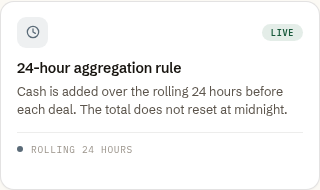
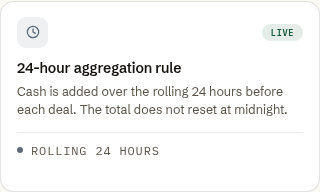
fix: raise the public rule label to 12px and 4.5 to 1
The shared rule label was about 10px in faint ink. One class now sets 12px in the mute ink for the home rule line and the compliance card label.

diff --git a/design/site/CurrencyDesk Site.dc.html b/design/site/CurrencyDesk Site.dc.html
@@ -21,6 +21,8 @@
     a:hover { color: #17583A; }
     html { scroll-behavior: smooth; scroll-snap-type: y proximity; }
     button { font-family: inherit; }
+    /* Small label on a public rule. 12px in the mute ink, which clears 4.5:1 on the white card. */
+    .cd-rule-meta { font-family: var(--m); font-size: 12px; color: var(--mute); }
     [data-rail] [data-more] { opacity: 0; transform: translateY(4px); max-height: 0; margin-top: 0; overflow: hidden; transition: opacity .25s ease, transform .25s ease, max-height .3s ease, margin-top .3s ease; pointer-events: none; }
     [data-rail]:hover [data-more] { opacity: 1; transform: translateY(0); max-height: 42px; margin-top: 9px; pointer-events: auto; }
     [data-rail][data-active="true"] [data-more] { opacity: 1; transform: translateY(0); max-height: 42px; margin-top: 9px; pointer-events: auto; }
@@ -431,7 +433,7 @@
                   </div>
                   <div style="position: relative; min-width: 0;">
                     <b style="display: -webkit-box; -webkit-line-clamp: 2; -webkit-box-orient: vertical; overflow: hidden; font-size: 14px; font-weight: 600; line-height: 1.2; color: var(--ink); letter-spacing: -0.005em;">{{ r.name }}</b>
-                    <span style="display: block; font-family: var(--m); font-size: 10.5px; color: var(--mute); margin-top: 5px; line-height: 1.25; white-space: nowrap; overflow: hidden; text-overflow: ellipsis;">{{ r.spec }}</span>
+                    <span class="cd-rule-meta" style="display: block; margin-top: 5px; line-height: 1.25; white-space: nowrap; overflow: hidden; text-overflow: ellipsis;">{{ r.spec }}</span>
                   </div>
                 </div>
               </sc-if>
@@ -441,7 +443,7 @@
                   <span style="{{ r.chipStyle }}">{{ r.icon }}</span>
                   <span style="flex: 1; min-width: 0;">
                     <b style="display: block; font-size: 13.5px; font-weight: 600; line-height: 1.2; color: var(--ink); letter-spacing: -0.005em; white-space: nowrap; overflow: hidden; text-overflow: ellipsis;">{{ r.name }}</b>
-                    <span style="{{ r.specStyle }}">{{ r.spec }}</span>
+                    <span class="cd-rule-meta" style="{{ r.specStyle }}">{{ r.spec }}</span>
                   </span>
                   <span style="{{ r.tagPill }}">{{ r.tag }}</span>
                 </div>
@@ -1418,7 +1420,7 @@ class Component extends DCLogic {
         const tall = sp[1] > 1;
         const wraps = r.name === '24-hour rule';
         return { slot: i, name: r.name, spec: r.spec, tag: r.tag, tall: tall, flat: !tall,
-          specStyle: 'display:block;font-family:var(--m);font-size:10px;color:var(--mute);margin-top:3px;line-height:1.2;white-space:' + (wraps ? 'normal' : 'nowrap') + ';overflow:' + (wraps ? 'visible' : 'hidden') + ';text-overflow:' + (wraps ? 'clip' : 'ellipsis') + ';',
+          specStyle: 'display:block;margin-top:3px;line-height:1.2;white-space:' + (wraps ? 'normal' : 'nowrap') + ';overflow:' + (wraps ? 'visible' : 'hidden') + ';text-overflow:' + (wraps ? 'clip' : 'ellipsis') + ';',
           icon: this.ic(ico, tall ? 17 : 15, acc, 1.9),
           bigIcon: this.ic(ico, tall ? 76 : 44, acc, 1.5),
           wmStyle: 'position:absolute;top:50%;transform:translateY(-50%);right:' + (tall ? '14px' : '8px') + ';opacity:' + (tall ? '0.17' : '0.15') + ';color:currentColor;pointer-events:none;line-height:0;z-index:0;',

diff --git a/web/index.html b/web/index.html
@@ -32,6 +32,8 @@
     a:hover { color: #17583A; }
     html { scroll-behavior: smooth; scroll-snap-type: y proximity; }
     button { font-family: inherit; }
+    /* Small label on a public rule. 12px in the mute ink, which clears 4.5:1 on the white card. */
+    .cd-rule-meta { font-family: var(--m); font-size: 12px; color: var(--mute); }
     [data-rail] [data-more] { opacity: 0; transform: translateY(4px); max-height: 0; margin-top: 0; overflow: hidden; transition: opacity .25s ease, transform .25s ease, max-height .3s ease, margin-top .3s ease; pointer-events: none; }
     [data-rail]:hover [data-more] { opacity: 1; transform: translateY(0); max-height: 42px; margin-top: 9px; pointer-events: auto; }
     [data-rail][data-active="true"] [data-more] { opacity: 1; transform: translateY(0); max-height: 42px; margin-top: 9px; pointer-events: auto; }
@@ -442,7 +444,7 @@
                   </div>
                   <div style="position: relative; min-width: 0;">
                     <b style="display: -webkit-box; -webkit-line-clamp: 2; -webkit-box-orient: vertical; overflow: hidden; font-size: 14px; font-weight: 600; line-height: 1.2; color: var(--ink); letter-spacing: -0.005em;">{{ r.name }}</b>
-                    <span style="display: block; font-family: var(--m); font-size: 10.5px; color: var(--mute); margin-top: 5px; line-height: 1.25; white-space: nowrap; overflow: hidden; text-overflow: ellipsis;">{{ r.spec }}</span>
+                    <span class="cd-rule-meta" style="display: block; margin-top: 5px; line-height: 1.25; white-space: nowrap; overflow: hidden; text-overflow: ellipsis;">{{ r.spec }}</span>
                   </div>
                 </div>
               </sc-if>
@@ -452,7 +454,7 @@
                   <span style="{{ r.chipStyle }}">{{ r.icon }}</span>
                   <span style="flex: 1; min-width: 0;">
                     <b style="display: block; font-size: 13.5px; font-weight: 600; line-height: 1.2; color: var(--ink); letter-spacing: -0.005em; white-space: nowrap; overflow: hidden; text-overflow: ellipsis;">{{ r.name }}</b>
-                    <span style="{{ r.specStyle }}">{{ r.spec }}</span>
+                    <span class="cd-rule-meta" style="{{ r.specStyle }}">{{ r.spec }}</span>
                   </span>
                   <span style="{{ r.tagPill }}">{{ r.tag }}</span>
                 </div>
@@ -1429,7 +1431,7 @@ class Component extends DCLogic {
         const tall = sp[1] > 1;
         const wraps = r.name === '24-hour rule';
         return { slot: i, name: r.name, spec: r.spec, tag: r.tag, tall: tall, flat: !tall,
-          specStyle: 'display:block;font-family:var(--m);font-size:10px;color:var(--mute);margin-top:3px;line-height:1.2;white-space:' + (wraps ? 'normal' : 'nowrap') + ';overflow:' + (wraps ? 'visible' : 'hidden') + ';text-overflow:' + (wraps ? 'clip' : 'ellipsis') + ';',
+          specStyle: 'display:block;margin-top:3px;line-height:1.2;white-space:' + (wraps ? 'normal' : 'nowrap') + ';overflow:' + (wraps ? 'visible' : 'hidden') + ';text-overflow:' + (wraps ? 'clip' : 'ellipsis') + ';',
           icon: this.ic(ico, tall ? 17 : 15, acc, 1.9),
           bigIcon: this.ic(ico, tall ? 76 : 44, acc, 1.5),
           wmStyle: 'position:absolute;top:50%;transform:translateY(-50%);right:' + (tall ? '14px' : '8px') + ';opacity:' + (tall ? '0.17' : '0.15') + ';color:currentColor;pointer-events:none;line-height:0;z-index:0;',

diff --git a/server/tests/public-claims.test.ts b/server/tests/public-claims.test.ts
@@ -537,6 +537,38 @@ describe("public marketing claims", () => {
     expect((Math.max(lum(fg), lum(bg)) + 0.05) / (Math.min(lum(fg), lum(bg)) + 0.05)).toBeGreaterThanOrEqual(4.5);
   });
 
+  it("keeps the public rule label at 12px and 4.5 to 1", () => {
+    const lum = (hex: string) => [0, 1, 2].reduce((sum, n) => {
+      const c = parseInt(hex.slice(1 + n * 2, 3 + n * 2), 16) / 255;
+      const lin = c <= 0.04045 ? c / 12.92 : ((c + 0.055) / 1.055) ** 2.4;
+      return sum + [0.2126, 0.7152, 0.0722][n]! * lin;
+    }, 0);
+    const ratio = (fg: string, bg: string) => (Math.max(lum(fg), lum(bg)) + 0.05) / (Math.min(lum(fg), lum(bg)) + 0.05);
+    const root = path.resolve(import.meta.dirname, "../..");
+    const rule = /\.cd-rule-meta\s*\{[^}]*font-size:\s*12px;[^}]*color:\s*var\(--mute\)/;
+    const site = readFileSync(path.join(root, "design/site/CurrencyDesk Site.dc.html"), "utf8");
+    const complianceSrc = readFileSync(path.join(root, "design/site/CurrencyDesk Compliance.dc.html"), "utf8");
+    expect(site).toMatch(rule);
+    expect(complianceSrc).toMatch(rule);
+    const mute = site.match(/--mute:\s*(#[0-9A-Fa-f]{6})/)?.[1] ?? "";
+    const complianceMute = complianceSrc.match(/--mute:\s*(#[0-9A-Fa-f]{6})/)?.[1] ?? "";
+    expect(mute).toBe(complianceMute);
+    expect(ratio(mute, "#FFFFFF"), `${mute} on the white card`).toBeGreaterThanOrEqual(4.5);
+    expect(site).not.toMatch(/prefers-color-scheme/);
+    expect(complianceSrc).not.toMatch(/prefers-color-scheme/);
+    const home = readFileSync(path.join(root, "web/index.html"), "utf8");
+    const compliance = readFileSync(path.join(root, "web/compliance.html"), "utf8");
+    const faq = readFileSync(path.join(root, "web/faq.html"), "utf8");
+    expect(home).toContain('class="cd-rule-meta"');
+    expect(compliance).toContain('class="cd-rule-meta"');
+    expect(home).not.toContain("font-size:10px;color:var(--mute)");
+    expect(compliance).not.toContain("font-size: 9.5px; letter-spacing: 0.07em; text-transform: uppercase; color: var(--faint);");
+    expect(compliance).toContain('class="cd-rule-meta" style="letter-spacing: 0.07em; text-transform: uppercase;"');
+    expect(compliance).toContain("font-size: 14px; font-weight: 600;");
+    expect(faq).not.toContain("cd-rule-meta");
+    expect(faq).toContain('font-size: 9.5px; letter-spacing: 0.16em; text-transform: uppercase; color: var(--faint); margin-top: 4px;">Answers');
+  });
+
   it("keeps a one-row pill clear of the 44px watermark", () => {
     const src = readFileSync(path.resolve(import.meta.dirname, "../../design/site/CurrencyDesk Site.dc.html"), "utf8");
     const pad = Number(src.match(/padding-right:' \+ \(tall \? '12' : '(\d+)'\)/)?.[1]);

diff --git a/design/site/CurrencyDesk Compliance.dc.html b/design/site/CurrencyDesk Compliance.dc.html
@@ -16,6 +16,8 @@
     a { color: #1D6B45; text-decoration: none; }
     a:hover { color: #17140F; }
     button { font-family: inherit; cursor: pointer; }
+    /* Small label on a public rule. 12px in the mute ink, which clears 4.5:1 on the white card. */
+    .cd-rule-meta { font-family: var(--m); font-size: 12px; color: var(--mute); }
     html { scroll-behavior: smooth; scroll-snap-type: y proximity; }
 
     @media (max-width: 720px) {
@@ -202,7 +204,7 @@
                   <span style="display: block; font-size: 12.5px; color: var(--mute); line-height: 1.45; margin-top: 5px;">{{ r.spec }}</span>
                   <div style="display: flex; align-items: center; gap: 8px; margin-top: 13px; padding-top: 10px; border-top: 1px solid var(--hair);">
                     <span style="{{ r.dotStyle }}"></span>
-                    <span style="font-family: var(--m); font-size: 9.5px; letter-spacing: 0.07em; text-transform: uppercase; color: var(--faint);">{{ r.when }}</span>
+                    <span class="cd-rule-meta" style="letter-spacing: 0.07em; text-transform: uppercase;">{{ r.when }}</span>
                   </div>
                 </div>
               </sc-for>

diff --git a/web/compliance.html b/web/compliance.html
@@ -27,6 +27,8 @@
     a { color: #1D6B45; text-decoration: none; }
     a:hover { color: #17140F; }
     button { font-family: inherit; cursor: pointer; }
+    /* Small label on a public rule. 12px in the mute ink, which clears 4.5:1 on the white card. */
+    .cd-rule-meta { font-family: var(--m); font-size: 12px; color: var(--mute); }
     html { scroll-behavior: smooth; scroll-snap-type: y proximity; }
 
     @media (max-width: 720px) {
@@ -213,7 +215,7 @@
                   <span style="display: block; font-size: 12.5px; color: var(--mute); line-height: 1.45; margin-top: 5px;">{{ r.spec }}</span>
                   <div style="display: flex; align-items: center; gap: 8px; margin-top: 13px; padding-top: 10px; border-top: 1px solid var(--hair);">
                     <span style="{{ r.dotStyle }}"></span>
-                    <span style="font-family: var(--m); font-size: 9.5px; letter-spacing: 0.07em; text-transform: uppercase; color: var(--faint);">{{ r.when }}</span>
+                    <span class="cd-rule-meta" style="letter-spacing: 0.07em; text-transform: uppercase;">{{ r.when }}</span>
                   </div>
                 </div>
               </sc-for>

diff --git a/docs/PROJECT_STATE.md b/docs/PROJECT_STATE.md
@@ -74,7 +74,7 @@ Full map, routes and build commands: `docs/REPOSITORY_MAP.md`.
 
 - **The s.84 identity gate looks back 24 consecutive hours.** The gate uses `shared/rolling-24h.js`. It reads the deal instant and looks back 24 hours of elapsed time. The total does not reset at midnight. A receipt exactly 24 hours earlier counts. One millisecond earlier does not. Exactly CAD 10,000.00 counts. CAD 9,999.99 does not. `zonedMidnight` still starts a calendar date. The desk filing clusters and the settings anchor are unchanged. Issue #280.
 
-- **The public pages use that same rolling 24 hours.** The home Canada card, the compliance page, and the FAQ say cash is added over the rolling 24 hours before each deal, and the total does not reset at midnight. The claims check rejects a midnight reset and a calendar-day window on every `web/*.html` page. "SMR within 24 hours" stays. That is a suspicion deadline, not the cash total. Issue #290.
+- **The public pages use that same rolling 24 hours.** The home Canada card, the compliance page, and the FAQ say cash is added over the rolling 24 hours before each deal, and the total does not reset at midnight. The claims check rejects a midnight reset and a calendar-day window on every `web/*.html` page. The small label under a public rule is 12px in the mute ink, which clears 4.5 to 1 on the white card. The marketing pages have no dark theme. "SMR within 24 hours" stays. That is a suspicion deadline, not the cash total. Issue #290.
 
 - **A cheque reversal puts the cash back only in the till that paid it out.** `POST /api/ledger/cheques/:chequeId/reversal` from any other till is 422 `CHEQUE_REVERSAL_WRONG_TILL`, "Reverse this cheque at the till that paid it out. Nothing was reversed." The cheque stays held. No reversal row, no reversal journal, no till movement, and no idempotency row is committed. The same open till still reverses: the net returns to that drawer and the fee is reversed with it. A closed or signed-off day is a separate check and is not part of this one.
 
